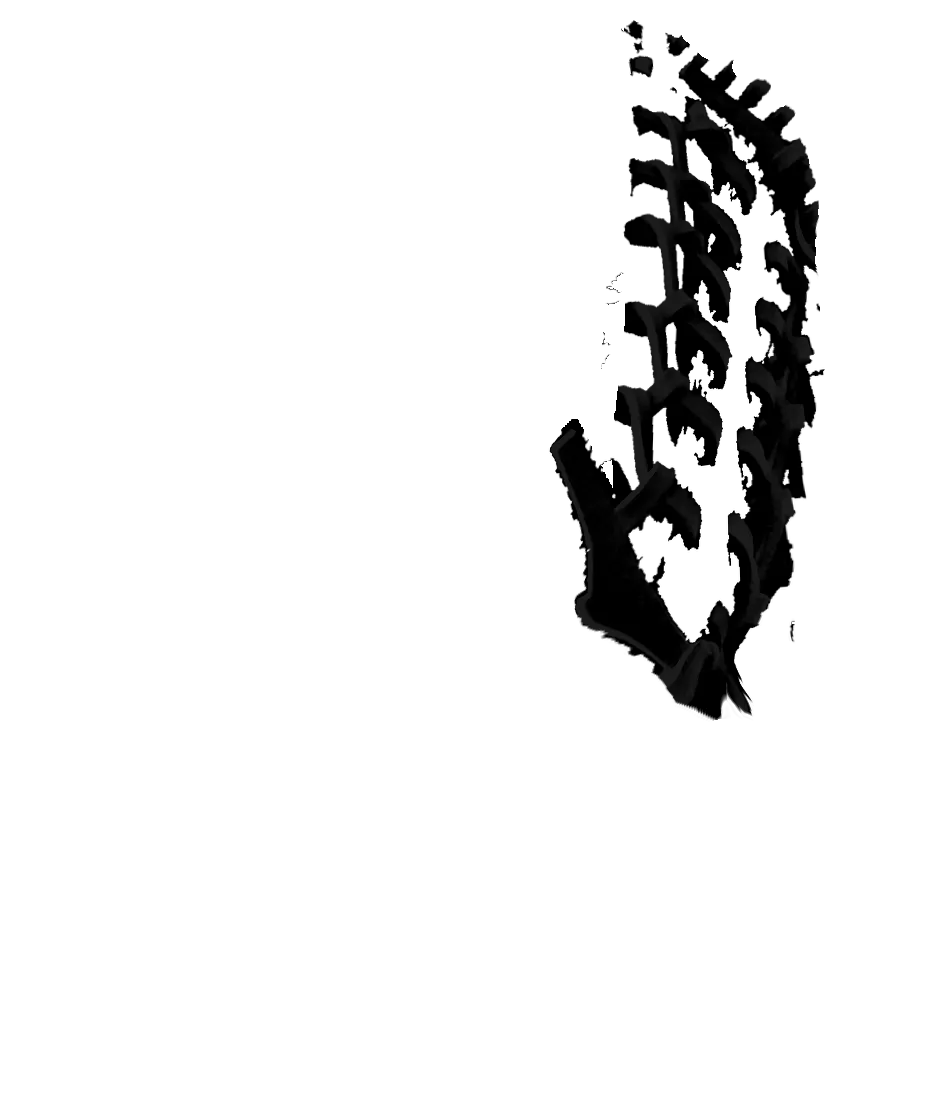
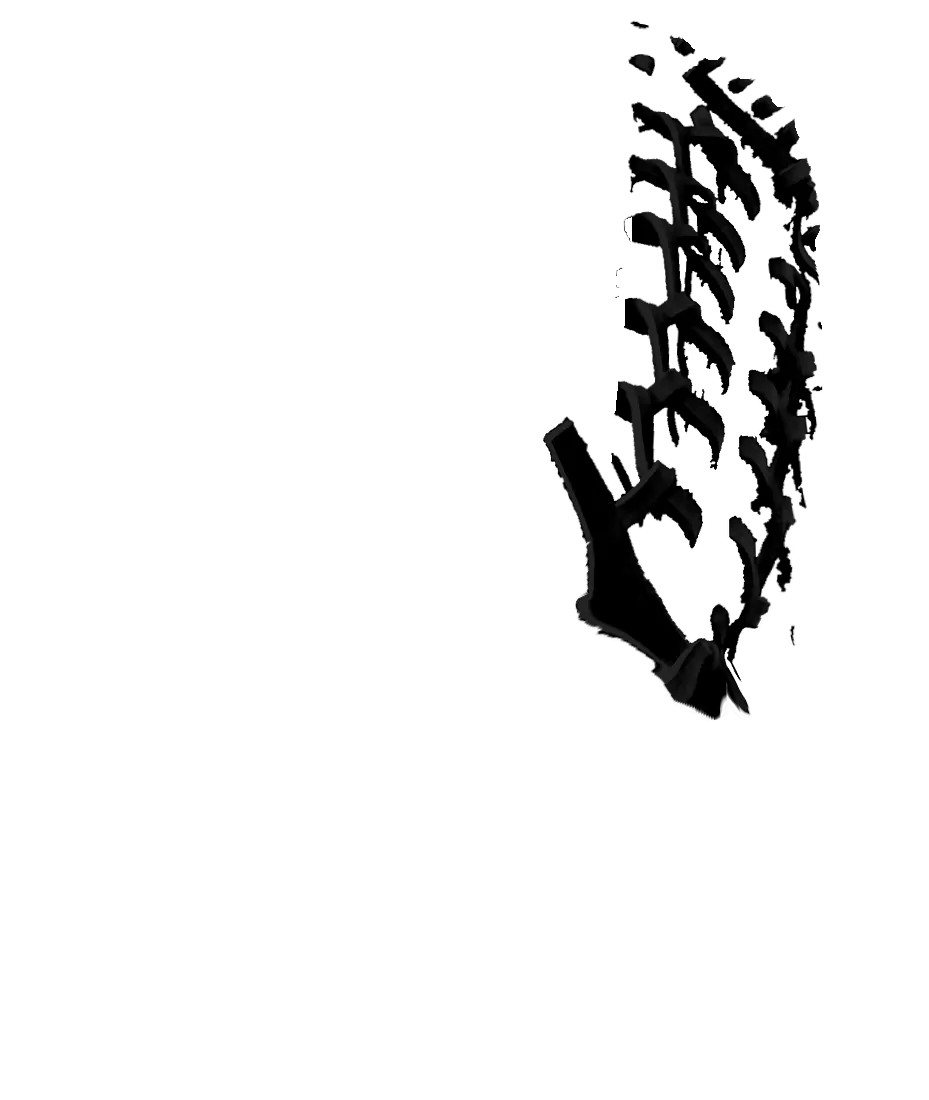
Stop labelling reflected gold on the Modified Trapeze post as lace
Astra's review of the overlay against DSC05720 showed broad scalloped
patches of "lace" on the continuous black post: gold light reflected off
the right ladder's hooks. Measured on the full-resolution frame, hue, value
and G/R of that reflection overlap shaded gold lace, so no colour rule can
part them; brightness under even light can. The tracer now recovers
flatten_light.py's gain from the committed relit photo and requires gold
lace to be lit (relit V >= 60), except within 24 px of backdrop where
there is no leather to reflect anything. 18,939 px of post go back to
leather; windows, joins, conform and finger strip are unchanged. The
reflected light stays in the leather layer's relief as shading.

Trapeze labels were re-inspected at 3x along the whole post and match the
frame; its assets are byte-identical. The handoff records the round, the
earlier wrong claim, and the remaining ragged shaded hook ends on the
Modified Trapeze right ladder. Not marked approved.

diff --git a/glove_builder/trace_trapeze.py b/glove_builder/trace_trapeze.py
@@ -109,6 +109,10 @@ SOURCES = {
[1 lines of base64/hex data omitted]
         "photo": "images/store-2026-09/modified-trapeze.jpg",
         "rule": "gold",
+        # the relit brightness a gold lace is lit to and the gold reflected
+        # on the post is not: 45 took the reflection patches, 60 follows the
+        # hooks' own edges (compared side by side on the lifted frame)
+        "lit_floor": 60,
         # Out to the rim's loops, which stand 15-20 px proud of its leather.
         # The rim lace's end pointing off to (1500, 720) and the tail hanging
         # from (1460, 770) to (1460, 1020) are in air, and stay out.
@@ -146,7 +150,24 @@ def sha256(path):
     return h.hexdigest()
 
 
-def classify(rgb, rule):
+def lighting(full, photo):
+    """How much flatten_light.py brightened each pixel of the frame.
+
+    The committed photograph is these pixels halved and relit; the ratio of
+    the two, smoothed well past a lace's width, is the relight's gain. It
+    lets a brightness threshold mean the same thing on the lit left of the
+    glove and on its shaded right, which the raw frame does not.
+    """
+    ph, pw = photo.shape[:2]
+    lum = lambda a: a.astype(np.float32) @ np.array([0.299, 0.587, 0.114], np.float32)
+    half = cv2.resize(full, (pw, ph), interpolation=cv2.INTER_AREA)
+    g = (cv2.GaussianBlur(lum(photo), (0, 0), 8)
+         / np.maximum(cv2.GaussianBlur(lum(half), (0, 0), 8), 2.0))
+    return cv2.resize(np.clip(g, 0.5, 6.0), (full.shape[1], full.shape[0]),
+                      interpolation=cv2.INTER_CUBIC)
+
+
+def classify(rgb, rule, gain=None, lit_floor=None, open_reach=24):
     """Lace, leather or window for every pixel of the full-resolution crop."""
     s = cv2.GaussianBlur(rgb.astype(np.float32), (0, 0), 1.2 if rule == "purple" else 1.6)
     lab = cv2.cvtColor(np.clip(s, 0, 255).astype(np.uint8),
@@ -170,6 +191,25 @@ def classify(rgb, rule):
         warm = (R - B) / (R + G + B + 6)
         lace = (warm >= 0.22) & ((R - B) >= 8)
         window = ~lace & (L > 42) & (np.abs(b) < 9) & (np.abs(a) < 6)
+        if lit_floor is not None and gain is not None:
+            # Warmth alone was wrong over the post. Between the right
+            # ladder's hooks the black post lies in the laces' shadow and
+            # takes their gold as reflected light: warm, dark, and as warm
+            # in proportion as a lace in shadow, so it came out as broad
+            # scalloped patches of "lace" on the post (Astra, reviewing the
+            # overlay against the frame). Hue, value and G/R of the two
+            # overlap in the raw frame — measured, not assumed — so colour
+            # cannot part them there; brightness under even light can. Lit
+            # gold lace stays above `lit_floor` on the relit scale, the
+            # reflection on leather stays below it, and the patch between
+            # is what the frame itself cannot decide, left as the leather it
+            # lies on. Where the ground behind a lace is open backdrop there
+            # is no leather to reflect anything and warmth is enough, so
+            # within `open_reach` px of backdrop the rule is unchanged.
+            V = np.maximum(np.maximum(R, G), B) * gain
+            near_open = ndimage.distance_transform_edt(~window) <= open_reach
+            lace &= near_open | (V >= lit_floor)
+            window = ~lace & window
     cls = np.full(L.shape, LEATHER, np.uint8)
     cls[lace] = LACE
     cls[window] = WINDOW
@@ -291,7 +331,8 @@ def trace(slug, shoot):
     if ncc < 0.9:
         raise SystemExit("the frame does not line up with the committed photograph")
 
-    cls = classify(full, src["rule"])
+    cls = classify(full, src["rule"], gain=lighting(full, photo),
+                   lit_floor=src.get("lit_floor"))
     cls, moved = tidy(cls, src["rule"])
     cls = smooth(cls)
     grid = to_grid(cls, (ph, pw))
@@ -372,7 +413,7 @@ def trace(slug, shoot):
                                        "raw_sha256", "photo")},
         "crop_in_frame": list(CROP), "scale": 0.5,
         "photo_highpass_correlation": round(ncc, 4),
-        "rule": src["rule"], "roi": src["roi"],
+        "rule": src["rule"], "lit_floor": src.get("lit_floor"), "roi": src["roi"],
         "lace_only": src.get("lace_only", []),
         "px": {"lace": int(lace.sum()), "strap": int(strap.sum()),
                "leather": int(leather.sum()),

diff --git a/WEB-ASSET-HANDOFF.md b/WEB-ASSET-HANDOFF.md
@@ -6,9 +6,20 @@ Both webs are now traced from the store shoot's own camera frames, fitted to the
 calibration glove and registered in the catalogue. Nothing is pushed, merged or
 deployed. Astra reviews independently; I did not run a reciprocal review.
 
-This round answers Astra's four visual blockers (see "Blockers" below). The
-automated checks pass, but I only call it ready because of the renders I
-looked at, and the last section lists what is still visible in them.
+**Status: not approved.** Astra's four visual blockers are not signed off, and
+I don't claim they are fully fixed; that is for Astra's independent visual
+review. The automated checks pass, but they only prove that the current labels
+recolour correctly, not that the labels describe the photograph. The last
+section lists what is still visible.
+
+**Round 3 (this commit), after Astra's HIGH finding.** The Modified Trapeze
+overlay labelled brown light reflected off the lacing, inside the continuous
+black post, as gold lace. Those were the broad scalloped patches right of the
+stitching, and they rendered as torn white islands and hook-shaped black
+masses on a white web. The fix is to the source labels, not to smoothing or
+display; see "Round 3: reflection on the post" below. The Trapeze labels were
+re-inspected at 3× on every post tile and match the frame, so its assets are
+unchanged.
 
 ## Source identity
 
@@ -49,8 +60,10 @@ The full hashes are in `glove_builder/trace_trapeze.py` (`SOURCES`) and in each
   (twice the committed photo's resolution) is classified on its own:
   - **Trapeze:** lace where a* ≥ 4 and a*−b* ≥ 7, or near-black and not warm.
     Window where neutral or cool and bright.
-  - **Modified Trapeze:** lace where (R−B)/(R+G+B) ≥ 0.22, which stays true
-    for a gold lace in shadow. Window where neutral grey.
+  - **Modified Trapeze:** lace where (R−B)/(R+G+B) ≥ 0.22 **and** the
+    relit brightness is ≥ `lit_floor` (60). Within 24 full-res px of a
+    backdrop window, warmth alone is enough. Window where neutral grey. See
+    round 3.
 - **Clean-up** before bringing the labels down to the photo grid:
   - Specks are handed to the nearest real piece.
   - A 1.5 px Gaussian majority vote smooths each class. This removed the
@@ -78,9 +91,46 @@ The full hashes are in `glove_builder/trace_trapeze.py` (`SOURCES`) and in each
   environment would have re-encoded unrelated assets: `idmap.png`,
   `web_spiral-i_hi.webp`, and every asset path.
 
+### Round 3: reflection on the post (Modified Trapeze source labels)
+
+- **What I found.** I opened DSC05720 at full resolution, gamma-lifted and
+  chroma-boosted, beside the label overlay, in tiles along the whole post
+  (photo x 1230–1470, y 250–1100).
+  - Between the right ladder's hooks the black post sits in the laces'
+    shadow and picks up their gold as reflected light.
+  - I measured it against real lace in shadow. Hue (27–38°) and value (V
+    8–40) overlap, and G/R (0.58–0.69) nearly does. So no colour rule can
+    separate them in the raw frame.
+- **What separates them.** Brightness under even light does. `lighting()`
+  recovers `flatten_light.py`'s gain as the ratio of the committed relit
+  photo to the halved frame, smoothed well past a lace's width. On that scale
+  lit gold lace sits above 60 and the reflection below it. I compared floors
+  of 45 and 60 side by side on the lifted frame: 45 still took the reflection
+  patches, and 60 follows the hooks' own edges.
+- **What it doesn't touch.** Next to backdrop windows there's no leather to
+  reflect anything, so warmth alone still decides there. That keeps the left
+  ladder and the loops round the rim exactly as before.
+- **Result:**
+  - 18,939 px of the post, which the photo shows as black leather, go back
+    from lace to leather: lace 143,462 → 124,523 px, leather 66,339 → 84,671
+    px. Windows are unchanged at 22,746 px.
+  - The post is one continuous piece of leather in every render. The laces
+    cross it only where a lit hook actually lies over it.
+  - I added no loops and grew nothing. The whole post is not made leather:
+    every lit crossing stays lace.
+- **Shading is kept separately from the labels.** The reflected light stays
+  in the leather layer's own relief, as a lighter patch in the web colour
+  where the frame has one. It is no longer a lace.
+- **Unchanged:** the joins, the conform, the finger strip and the strap work
+  from the previous commit. The `--install` changed only the Modified
+  Trapeze's bbox and sheen entries in `glove-data.json`. Backups:
+  `trace_trapeze.py.bak`, `make_web.py.bak.2`, `runs/store-*/masks.bak/`,
+  `trace.json.bak`, `WEB-ASSET-HANDOFF.md.bak`, all gitignored.
+
 ### `glove_builder/make_web.py`
 
-Backups: `make_web.py.bak`, `make_web.py.bak.1`, both gitignored.
+Backups: `make_web.py.bak`, `make_web.py.bak.1`, `make_web.py.bak.2`, all
+gitignored. (Round 3 made no change here.)
 
 - **Specs:** the unshipped outline/hue specs are replaced by
   `"traced": runs/store-<slug>/masks`, plus a `finger_poly`.
@@ -180,10 +230,13 @@ NODE_PATH=/Users/scottprins/.cache/codex-runtimes/codex-primary-runtime/dependen
   passed.**
   - Trapeze: leather off by 13.9, lace off by 12.1–13.9, windows 98.7% open
     (of 5,378 px).
-  - Modified Trapeze: leather off by 13.9, lace off by 13.9–14.5, windows
-    99.4% open (of 7,626 px).
-  - Colour independence: 0 of 73,304 / 86,999 lace pixels moved, and 0 of
-    21,904 / 33,096 leather pixels moved.
+  - Modified Trapeze: leather off by 13.9, lace off by 13.9, windows 99.6%
+    open (of 7,951 px).
+  - Colour independence: 0 of 86,999 (Trapeze) and 62,076 (Modified
+    Trapeze) lace pixels moved, and 0 of 21,904 and 42,140 leather pixels
+    moved.
+  - These passing is necessary but not sufficient. They passed on the
+    previous commit too, while the labels were wrong.
   - Mirroring: LHT = RHT with a worst difference of 0.
 - **`PORT=8802 node glove_builder/render_check.mjs`: "all zones render the
   colour they were given".**
@@ -203,6 +256,22 @@ installs.
 
 ## What I visually inspected
 
+**Round 3.**
+- **Source against labels.** DSC05720 at full resolution, lifted, beside the
+  labels in six tiles down the post: before the fix, then with floors of 45
+  and 60, then after.
+- **Trapeze labels.** DSC05716 at 3× beside its labels in four tiles down the
+  post (photo x 1170–1350, y 380–1100), plus relit-L and a*−b* maps. The cream
+  post is continuous leather and the dark laces cross it, so no change was
+  needed.
+- **Source beside overlay beside render** (white web / black lace / navy
+  body): the scalloped patches are gone.
+- **Contact sheets of all eight renders per web** (photographed colours,
+  red/yellow/white, royal/white/black, white/black/navy, RHT and LHT), plus a
+  2× crop of the Modified Trapeze's right ladder on the white-web render.
+
+**Earlier rounds:**
+
 - **Source against class overlay.** I compared the source frames with the
   class overlays at 2–4× on:
   - both posts (Trapeze photo x 1180–1330, y 420–1080; Modified Trapeze
@@ -221,8 +290,10 @@ installs.
   - The flat red triangle and the horizontal cut are gone.
   - The Trapeze post is one continuous piece of leather with laces crossing
     it, and there are no lace islands in it.
-  - The Modified Trapeze post shows the black leather between crossings
-    wherever the photograph does.
+  - ~~The Modified Trapeze post shows the black leather between crossings
+    wherever the photograph does.~~ Wrong, as Astra showed: the post's
+    reflected light was labelled lace. That claim came from looking at an
+    overlay at page scale, not at the frame. Corrected in round 3.
   - The H-web half-loops at the finger edge are gone. The laces end at the
     finger's edge, as photographed.
 
@@ -242,11 +313,20 @@ installs.
    of the web's strap at canvas about (545–580, 540–600), and it is in back 2
    and the glove base. It is glove-level (`build_assets.py`'s knot heal) and
    shows under every swapped web. I did not touch it.
-3. **Modified Trapeze laces in deep shadow.** Where the right ladder falls in
-   deep shadow over the black post, a lace segment that is nearly black in the
-   frame stays leather. It is not recoverable by colour, and I did not paint
-   it in. The ladder therefore reads as hooks rather than full loops there,
-   which matches what is visible in the frame. It is the least certain part.
+3. **Modified Trapeze right ladder, shaded ends (the least certain part).**
+   `lit_floor` removes the reflection, but it also ends each hook where the
+   hook itself passes into shadow.
+   - On a white web the right-ladder hooks show slightly ragged, frayed ends
+     and a few small detached fragments. The worst is the lower right,
+     render about x 760–820, y 420–640.
+   - The frame cannot separate the lace's shaded end from the gold light it
+     casts on the post; both measure the same. Pulling the ends back by a
+     connectivity rule would bring the scallops back, so I didn't. A proper
+     fix would need a hand trace of each right-ladder hook's outline off the
+     full-resolution frame. That is feasible, and it is the next step if
+     Astra judges this still unacceptable.
+   - Faint lighter patches remain in the leather where the reflection was.
+     That is the photographed light kept as shading, not a label.
 4. **The spline moves the rim.** `conform()` moves the web's outer 35–49 px by
    up to 41.7 px (Trapeze) and 48.6 px (Modified Trapeze), because a 12" and
    a 12.75" web are being dropped into a 12.5" opening. The inner lattice
@@ -258,10 +338,14 @@ installs.
    heel, and I did not invent one. `knot: true` is set only because that is
    the key `build_assets.py` writes for every web not in `NO_KNOT`. The page
    draws no stock knot under any swapped web either way.
-6. **White web colour.** Picking White for the web (10) on the light page
+6. **Trapeze right ladder.** Its loops over the post's right edge give that
+   edge an irregular outline on the page. At 3× the frame shows the same
+   thing, because the loops really do overlap the post there. I'm keeping
+   this listed for Astra's eye rather than asserting it is fine.
+7. **White web colour.** Picking White for the web (10) on the light page
    makes the windows low-contrast (page #EBEBEB against white leather). That
    is inherent to the page background, not the asset.
-7. **Not updated:** `README.md` (still says these two are unshipped) and
+8. **Not updated:** `README.md` (still says these two are unshipped) and
    `customiser/dist/index.html` (the single-file bundle, which needs
    `bundle.py`). I left both for Astra's integration to avoid conflicts. I
    did not edit `app.js`, `app.css`, `index.html` or `glove-engine.js`, or
